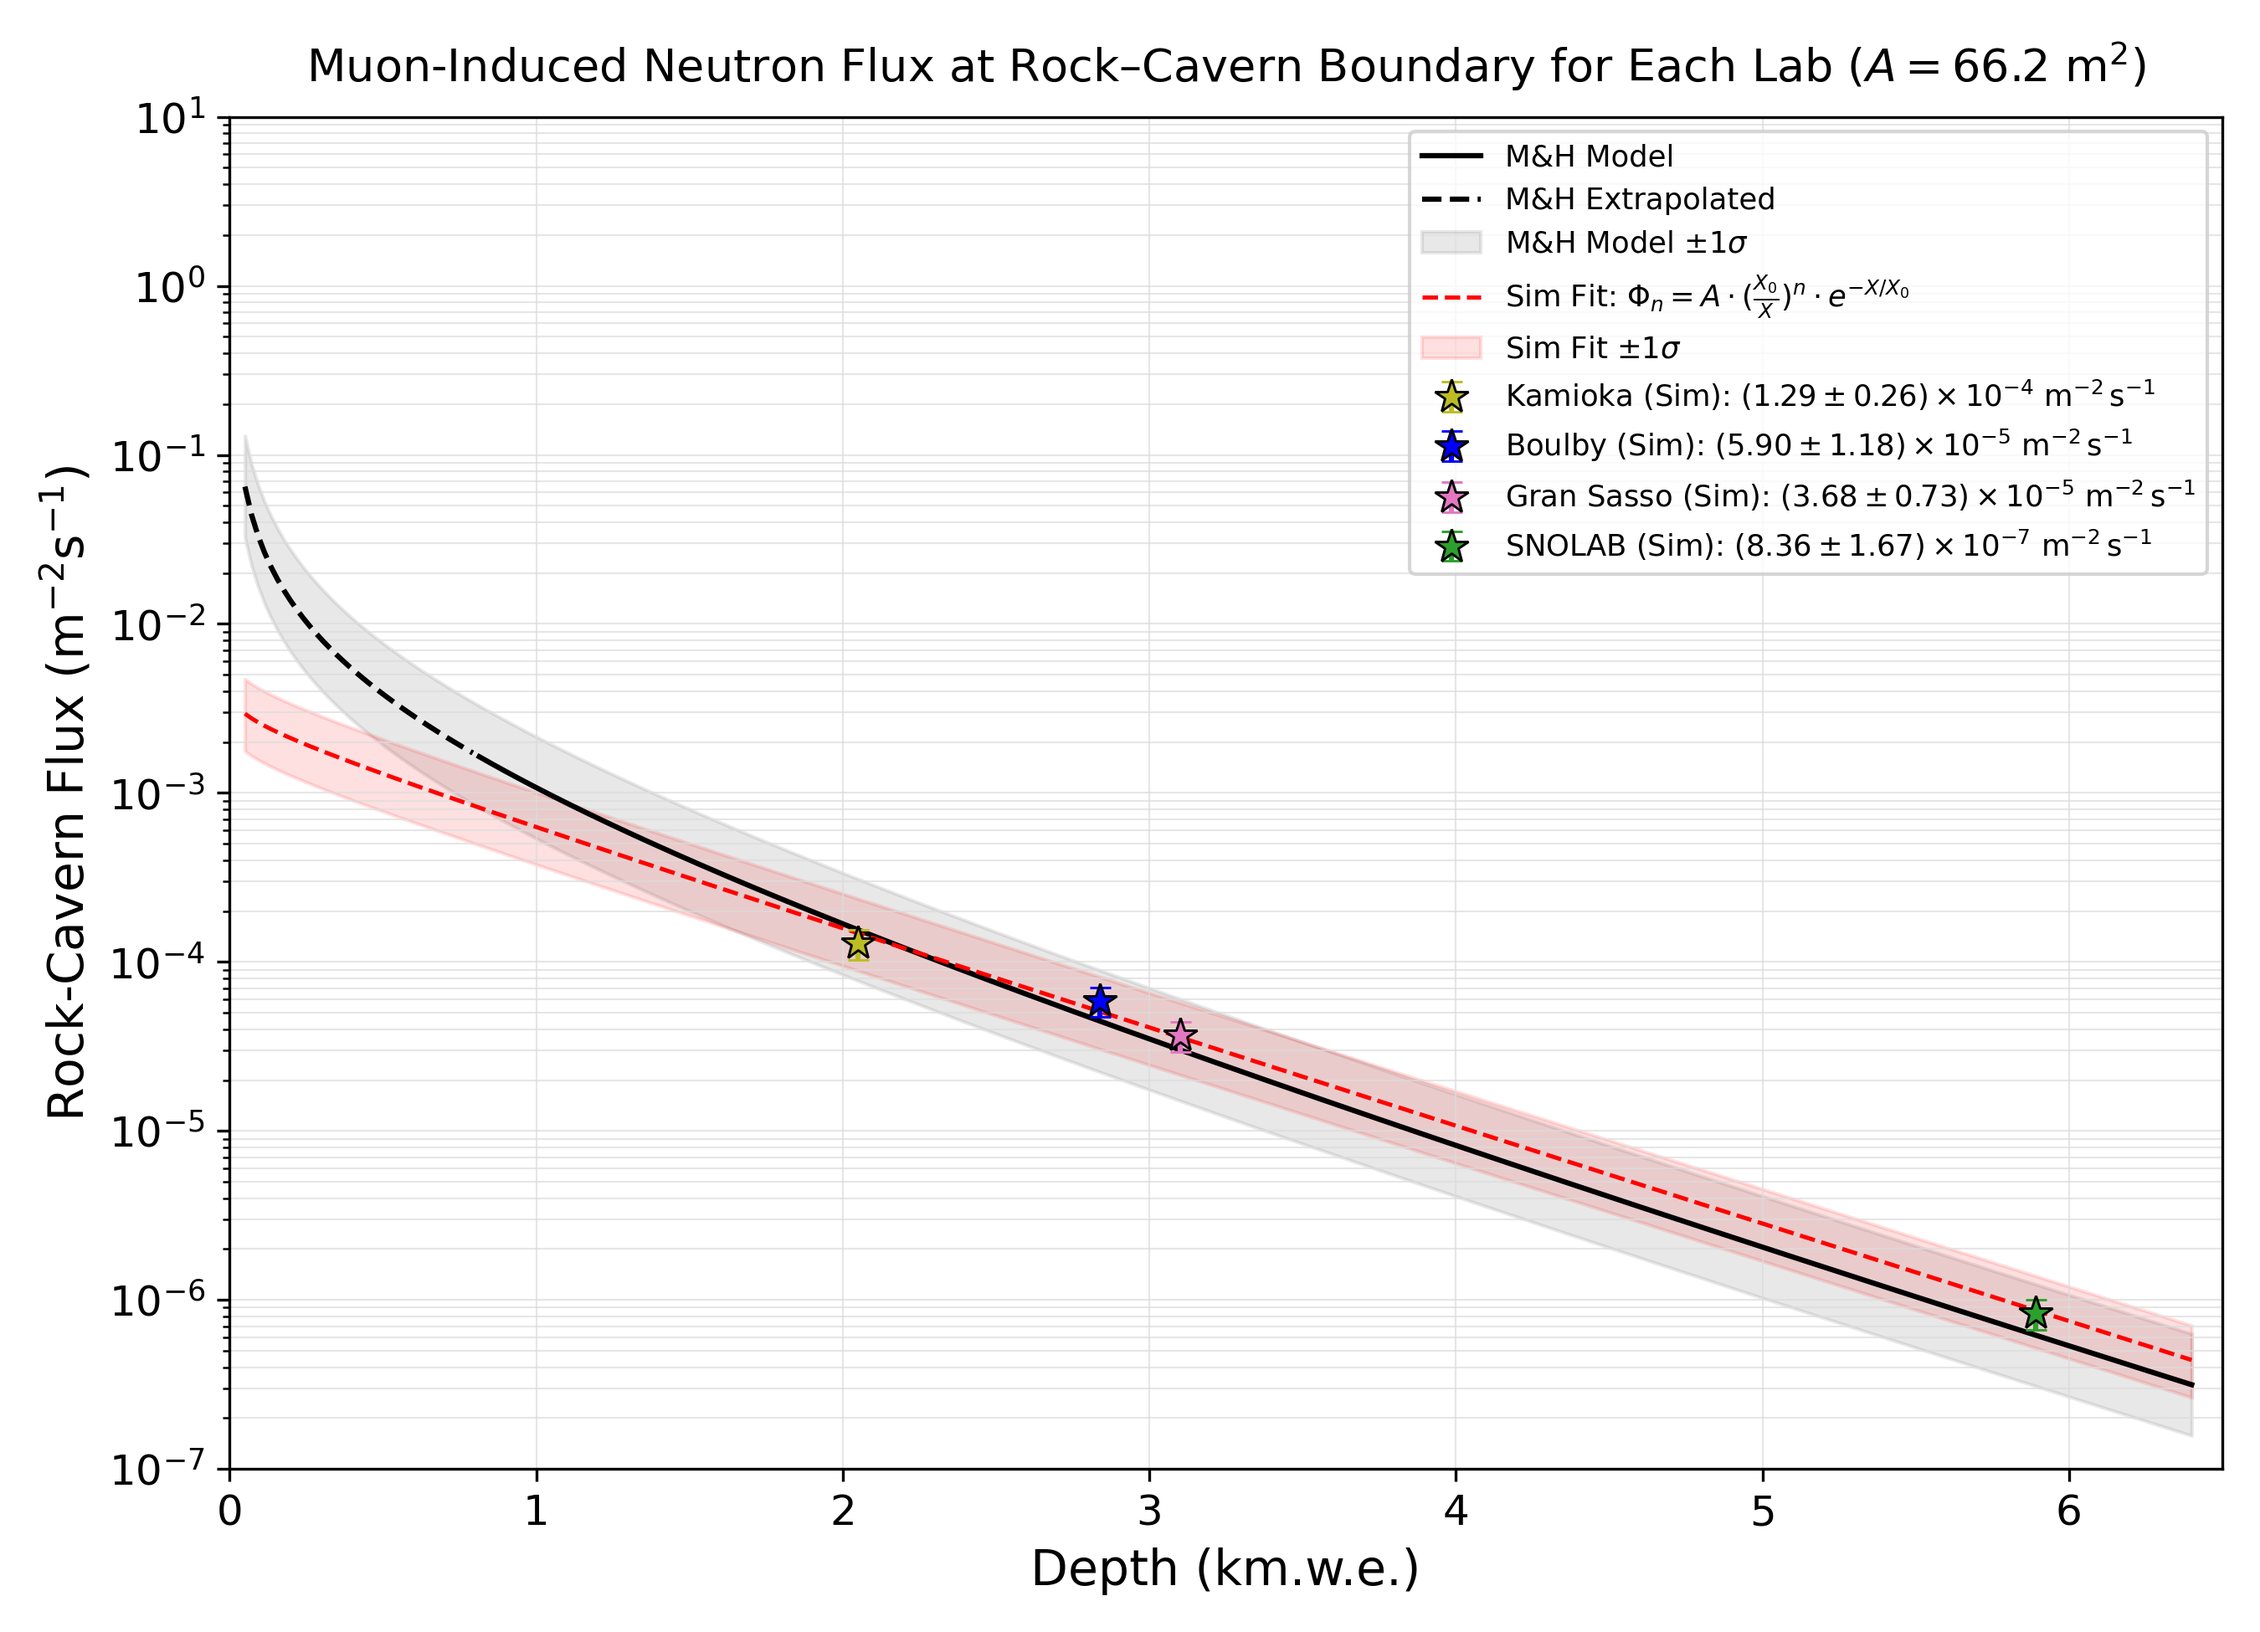
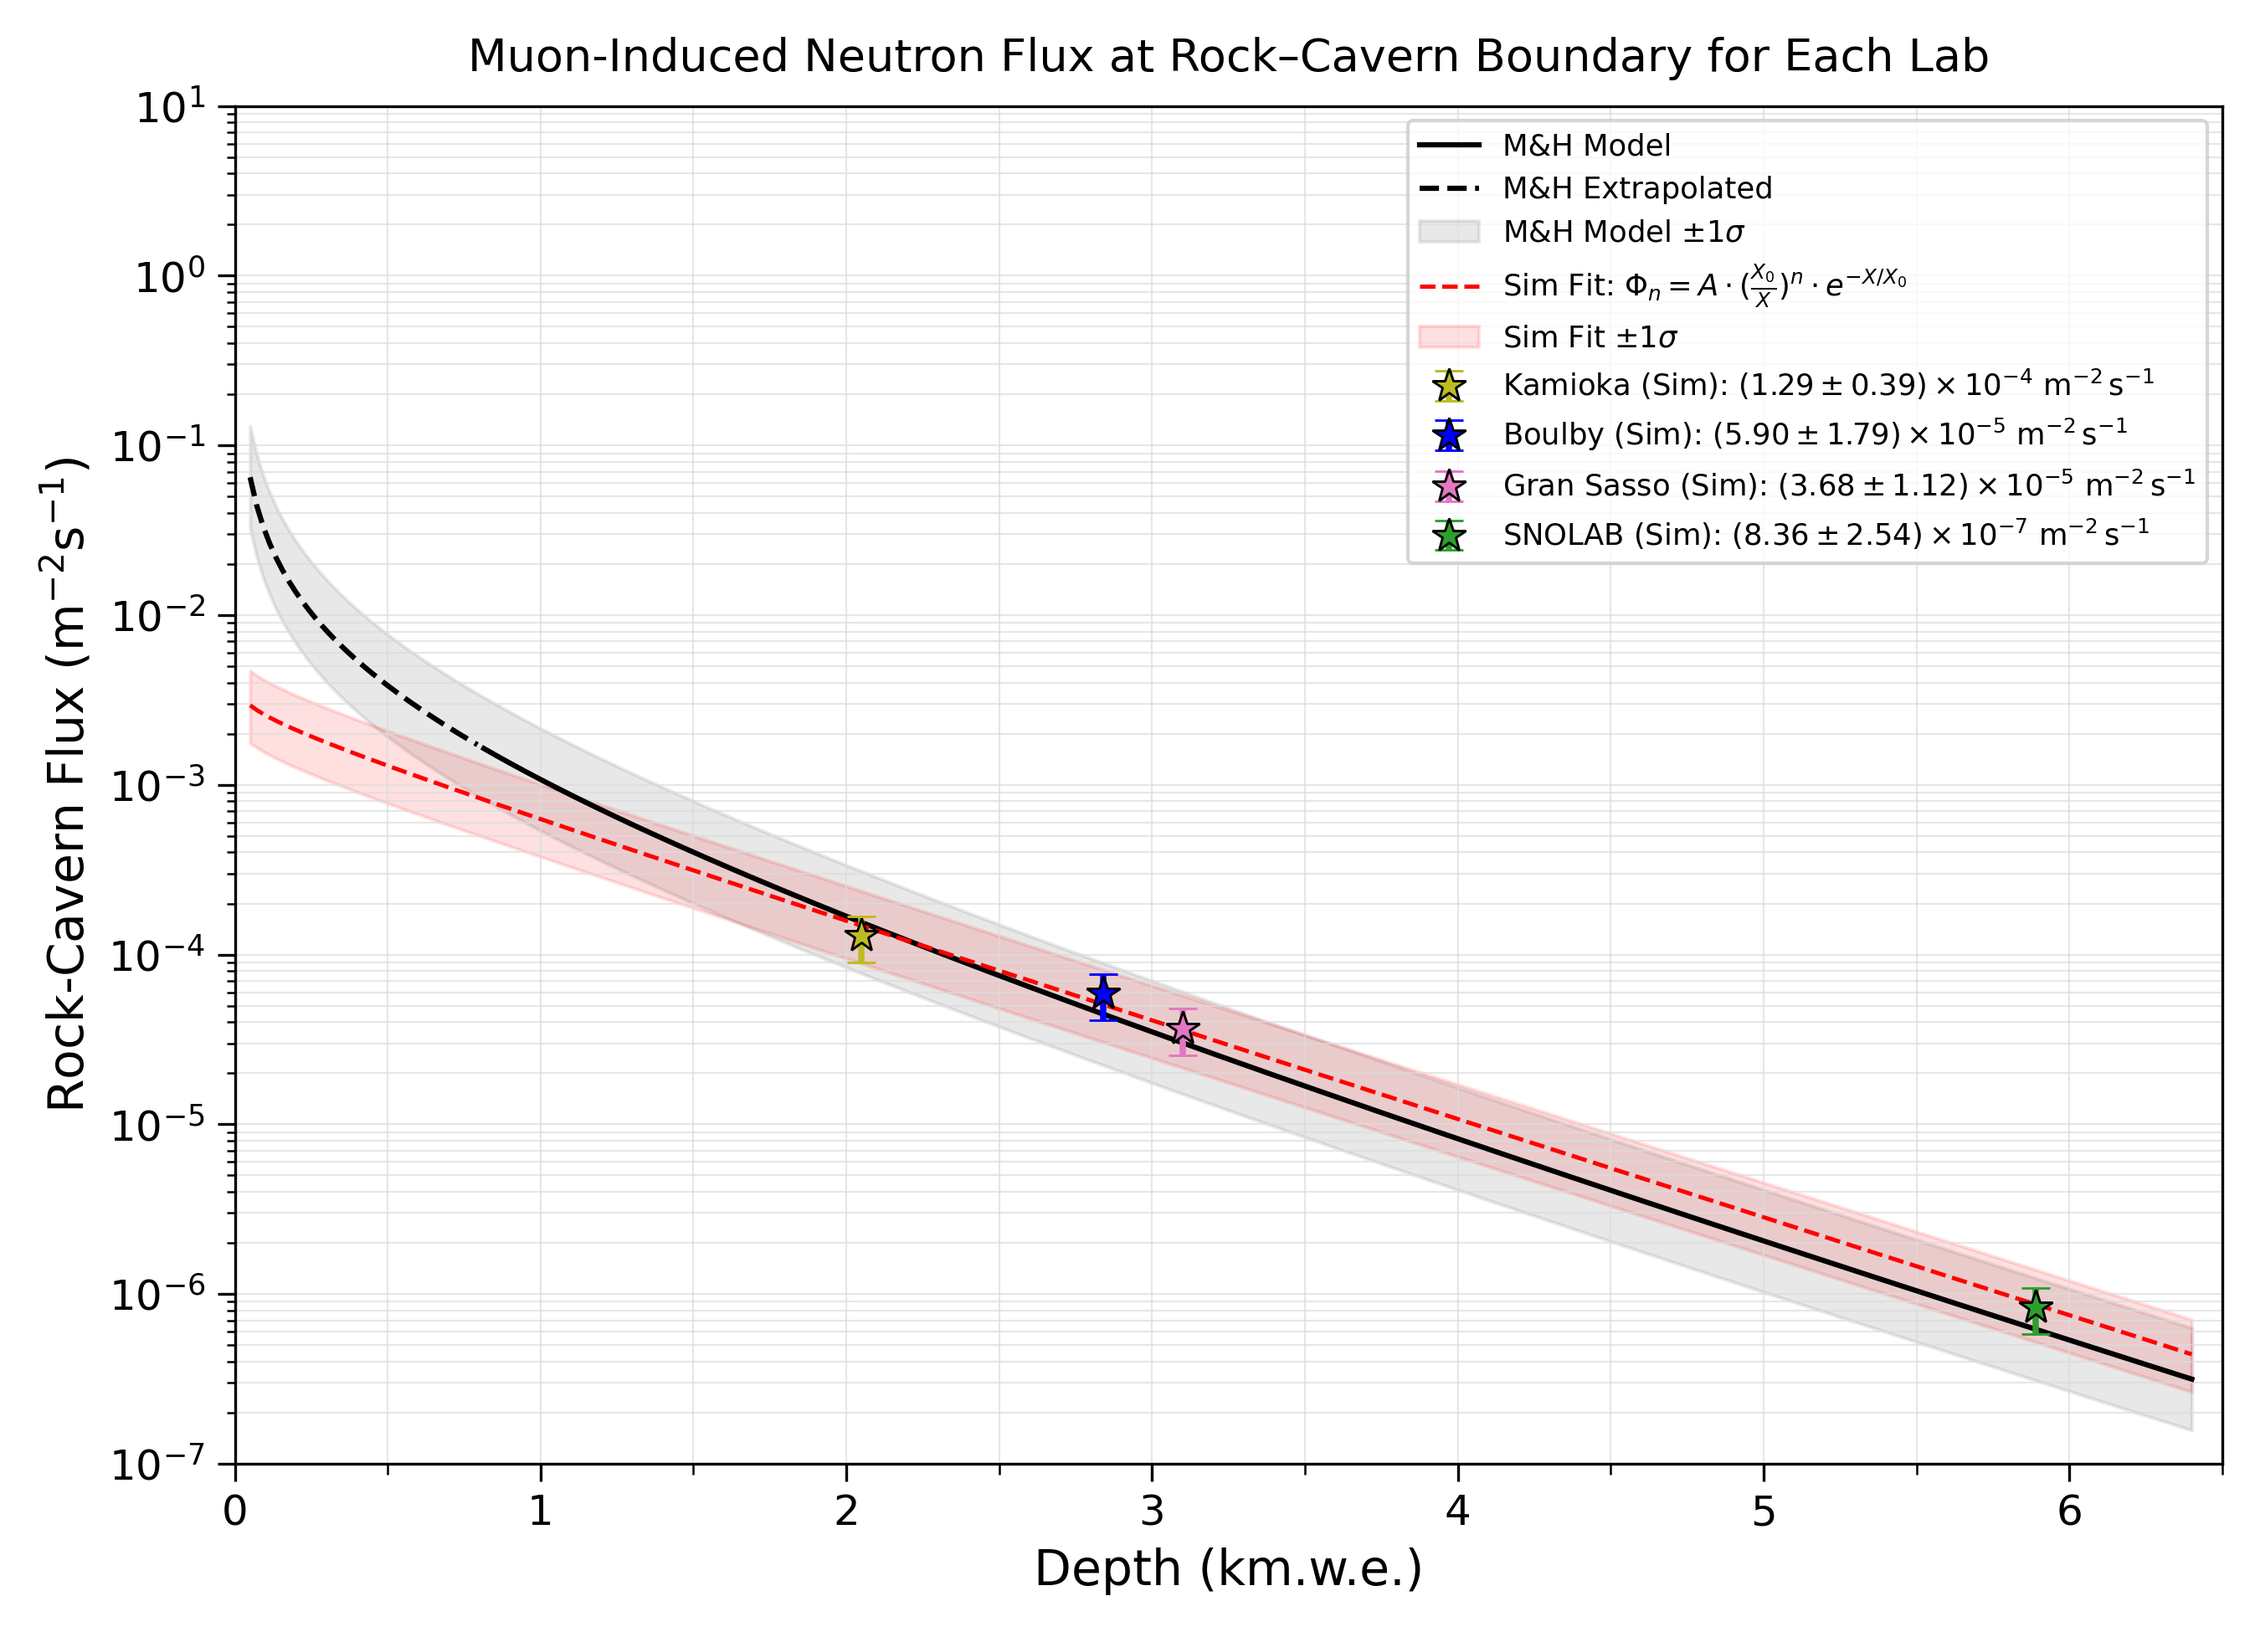
Fix UG Labs:

Changed region(s): [[0.0, 0.0308, 0.9956, 0.9538], [0.4667, 0.9538, 0.6222, 0.9846], [0.0, 0.2769, 0.0311, 0.3077]]

diff --git a/UndergroundLabs.py b/UndergroundLabs.py
@@ -232,7 +232,7 @@ def plot_simulation_flux(include_eqn6_fit=True, output_filename="MUTE_Sims_RockC
             item['depth'], item['flux'], yerr=item['err'], fmt=item['marker'],
             color=item['color'], ecolor=item['color'], ms=item['ms'],
             elinewidth=1.8, capthick=1.5, capsize=4, zorder=5,
-            markeredgecolor='black', markeredgewidth=0.7, capsize=3,
+            markeredgecolor='black', markeredgewidth=0.7,
             label=rf"{label} (Sim): ${flux_label}\ \mathrm{{m^{{-2}}\,s^{{-1}}}}$"
         )
 
@@ -243,8 +243,23 @@ def plot_simulation_flux(include_eqn6_fit=True, output_filename="MUTE_Sims_RockC
     plt.xlim(0, 6.5)
     plt.ylim(1e-7, 1e1)
 
-    plt.xticks(np.arange(0, 7, 1), fontsize=12)
-    plt.gca().yaxis.set_major_locator(ticker.LogLocator(base=10.0, numticks=15))
+    ax = plt.gca()
+
+    # X-axis: integer major ticks (0, 1, 2, 3, 4, 5, 6) + optional 0.5 minor tick marks without grid lines
+    ax.set_xticks(np.arange(0, 7, 1))
+    ax.xaxis.set_minor_locator(ticker.MultipleLocator(0.5))
+    ax.tick_params(axis='x', which='major', labelsize=12, length=5)
+    ax.tick_params(axis='x', which='minor', length=3)
+
+    # Y-axis: major decade ticks (10^-7 .. 10^1) + minor sub-decade ticks on spine only
+    ax.yaxis.set_major_locator(ticker.LogLocator(base=10.0, subs=(1.0,), numticks=15))
+    ax.yaxis.set_minor_locator(ticker.LogLocator(base=10.0, subs=np.arange(2, 10) * 0.1, numticks=100))
+    ax.yaxis.set_minor_formatter(ticker.NullFormatter())
+    ax.tick_params(axis='y', which='major', labelsize=12, length=5)
+    ax.tick_params(axis='y', which='minor', length=2.5)
+
+    # Grid lines ONLY on major ticks (clean single lines per integer and per decade)
+    ax.grid(True, which='major', color='gainsboro', linestyle='-', linewidth=0.5, alpha=0.7)
     plt.yticks(fontsize=12)
 
     plt.grid(True, which='both', color='gainsboro', linestyle='-', linewidth=0.5, alpha=0.7)
